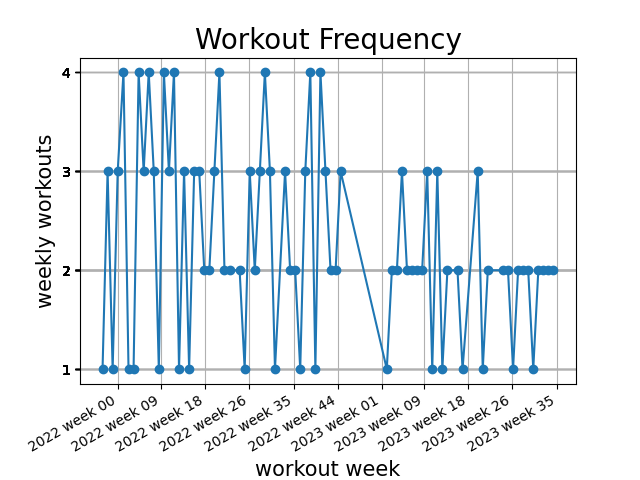
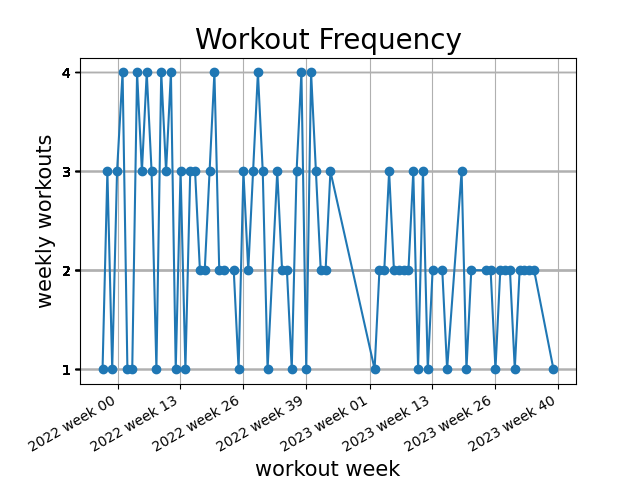
chore: add today's workout

Changed region(s): [[0.1562, 0.125, 0.875, 0.7812], [0.0938, 0.8125, 0.8125, 0.9375], [0.8125, 0.8125, 0.875, 0.875]]

diff --git a/examples/EXAMPLES.md b/examples/EXAMPLES.md
@@ -24,7 +24,7 @@ VO2-Max: `55.21923 mL/kg/min`<br>
 
 #### 2023:
 
-
+- <a style="text-align: center;">[September](../img/workout_duration_September_2023.png)<br>
 - <a style="text-align: center;">[August](../img/workout_duration_August_2023.png)<br>
 - <a style="text-align: center;">[July](../img/workout_duration_July_2023.png)<br>
 - <a style="text-align: center;">[June](../img/workout_duration_June_2023.png)<br>
